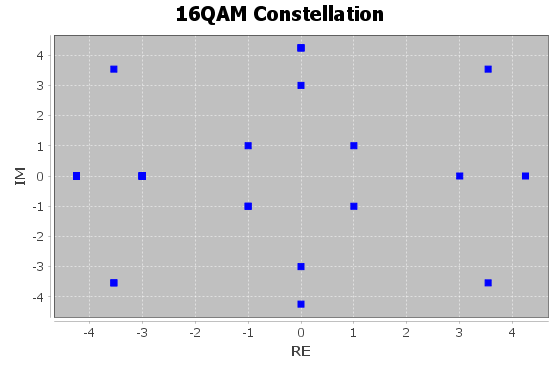
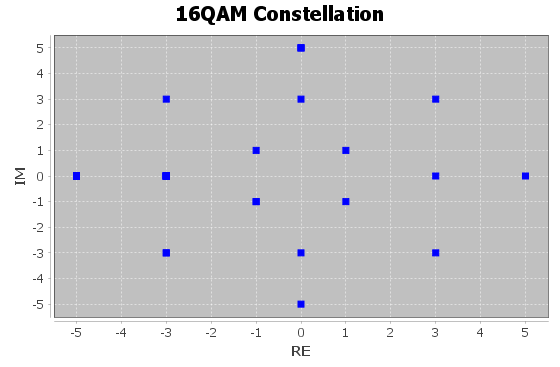
constellation update

diff --git a/src/main/java/pl/elka/pttw/constellation/Constellation.java b/src/main/java/pl/elka/pttw/constellation/Constellation.java
@@ -56,14 +56,14 @@ public class Constellation {
             modulation.put("0101", new AbstractMap.SimpleEntry(3.0000, 180.0000));
             modulation.put("0110", new AbstractMap.SimpleEntry(1.4142, 315.0000));
             modulation.put("0111", new AbstractMap.SimpleEntry(3.0000, 270.0000));
-            modulation.put("1000", new AbstractMap.SimpleEntry(4.2426, 270.0000));
-            modulation.put("1001", new AbstractMap.SimpleEntry(5.0000, 315.0000));
-            modulation.put("1010", new AbstractMap.SimpleEntry(4.2426, 180.0000));
-            modulation.put("1011", new AbstractMap.SimpleEntry(5.0000, 225.0000));
-            modulation.put("1100", new AbstractMap.SimpleEntry(4.2426, 90.0000));
-            modulation.put("1101", new AbstractMap.SimpleEntry(5.0000, 135.0000));
-            modulation.put("1110", new AbstractMap.SimpleEntry(4.2426, 0.0000));
-            modulation.put("1111", new AbstractMap.SimpleEntry(5.0000, 45.0000));
+            modulation.put("1000", new AbstractMap.SimpleEntry(5.0000, 270.0000));
+            modulation.put("1001", new AbstractMap.SimpleEntry(4.2426, 315.0000));
+            modulation.put("1010", new AbstractMap.SimpleEntry(5.0000, 180.0000));
+            modulation.put("1011", new AbstractMap.SimpleEntry(4.2426, 225.0000));
+            modulation.put("1100", new AbstractMap.SimpleEntry(5.0000, 90.0000));
+            modulation.put("1101", new AbstractMap.SimpleEntry(4.2426, 135.0000));
+            modulation.put("1110", new AbstractMap.SimpleEntry(5.0000, 0.0000));
+            modulation.put("1111", new AbstractMap.SimpleEntry(4.2426, 45.0000));
         }
 
         @Override
